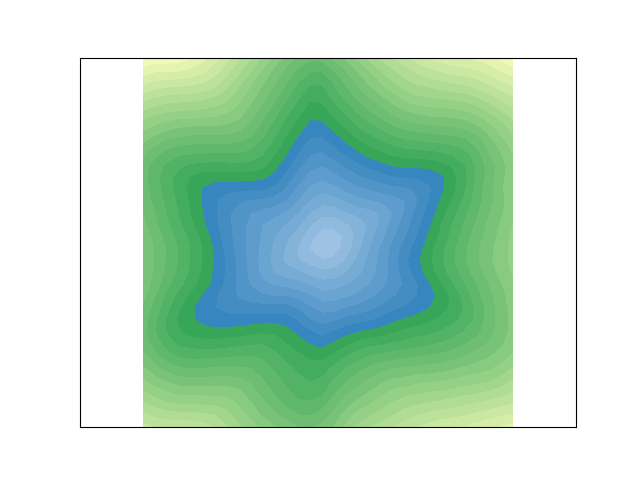
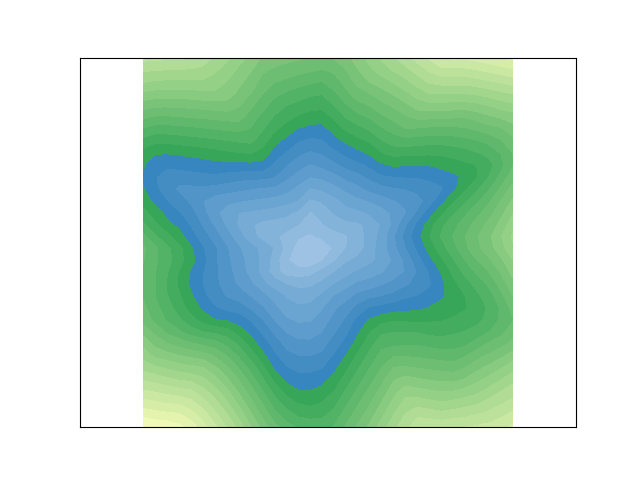
update figures

diff --git a/2D_interpolation/main_mlp.py b/2D_interpolation/main_mlp.py
@@ -29,7 +29,7 @@ plt.figure(1)
 plot_sdf(gt1)
 plt.savefig(folder + "gt1.png")
 
-dims = [3, 256,  256, 256, 1]
+dims = [3, 64,  64, 64, 64, 1]
 model = mlp(dims)
 model_str = "mlp" 
 
